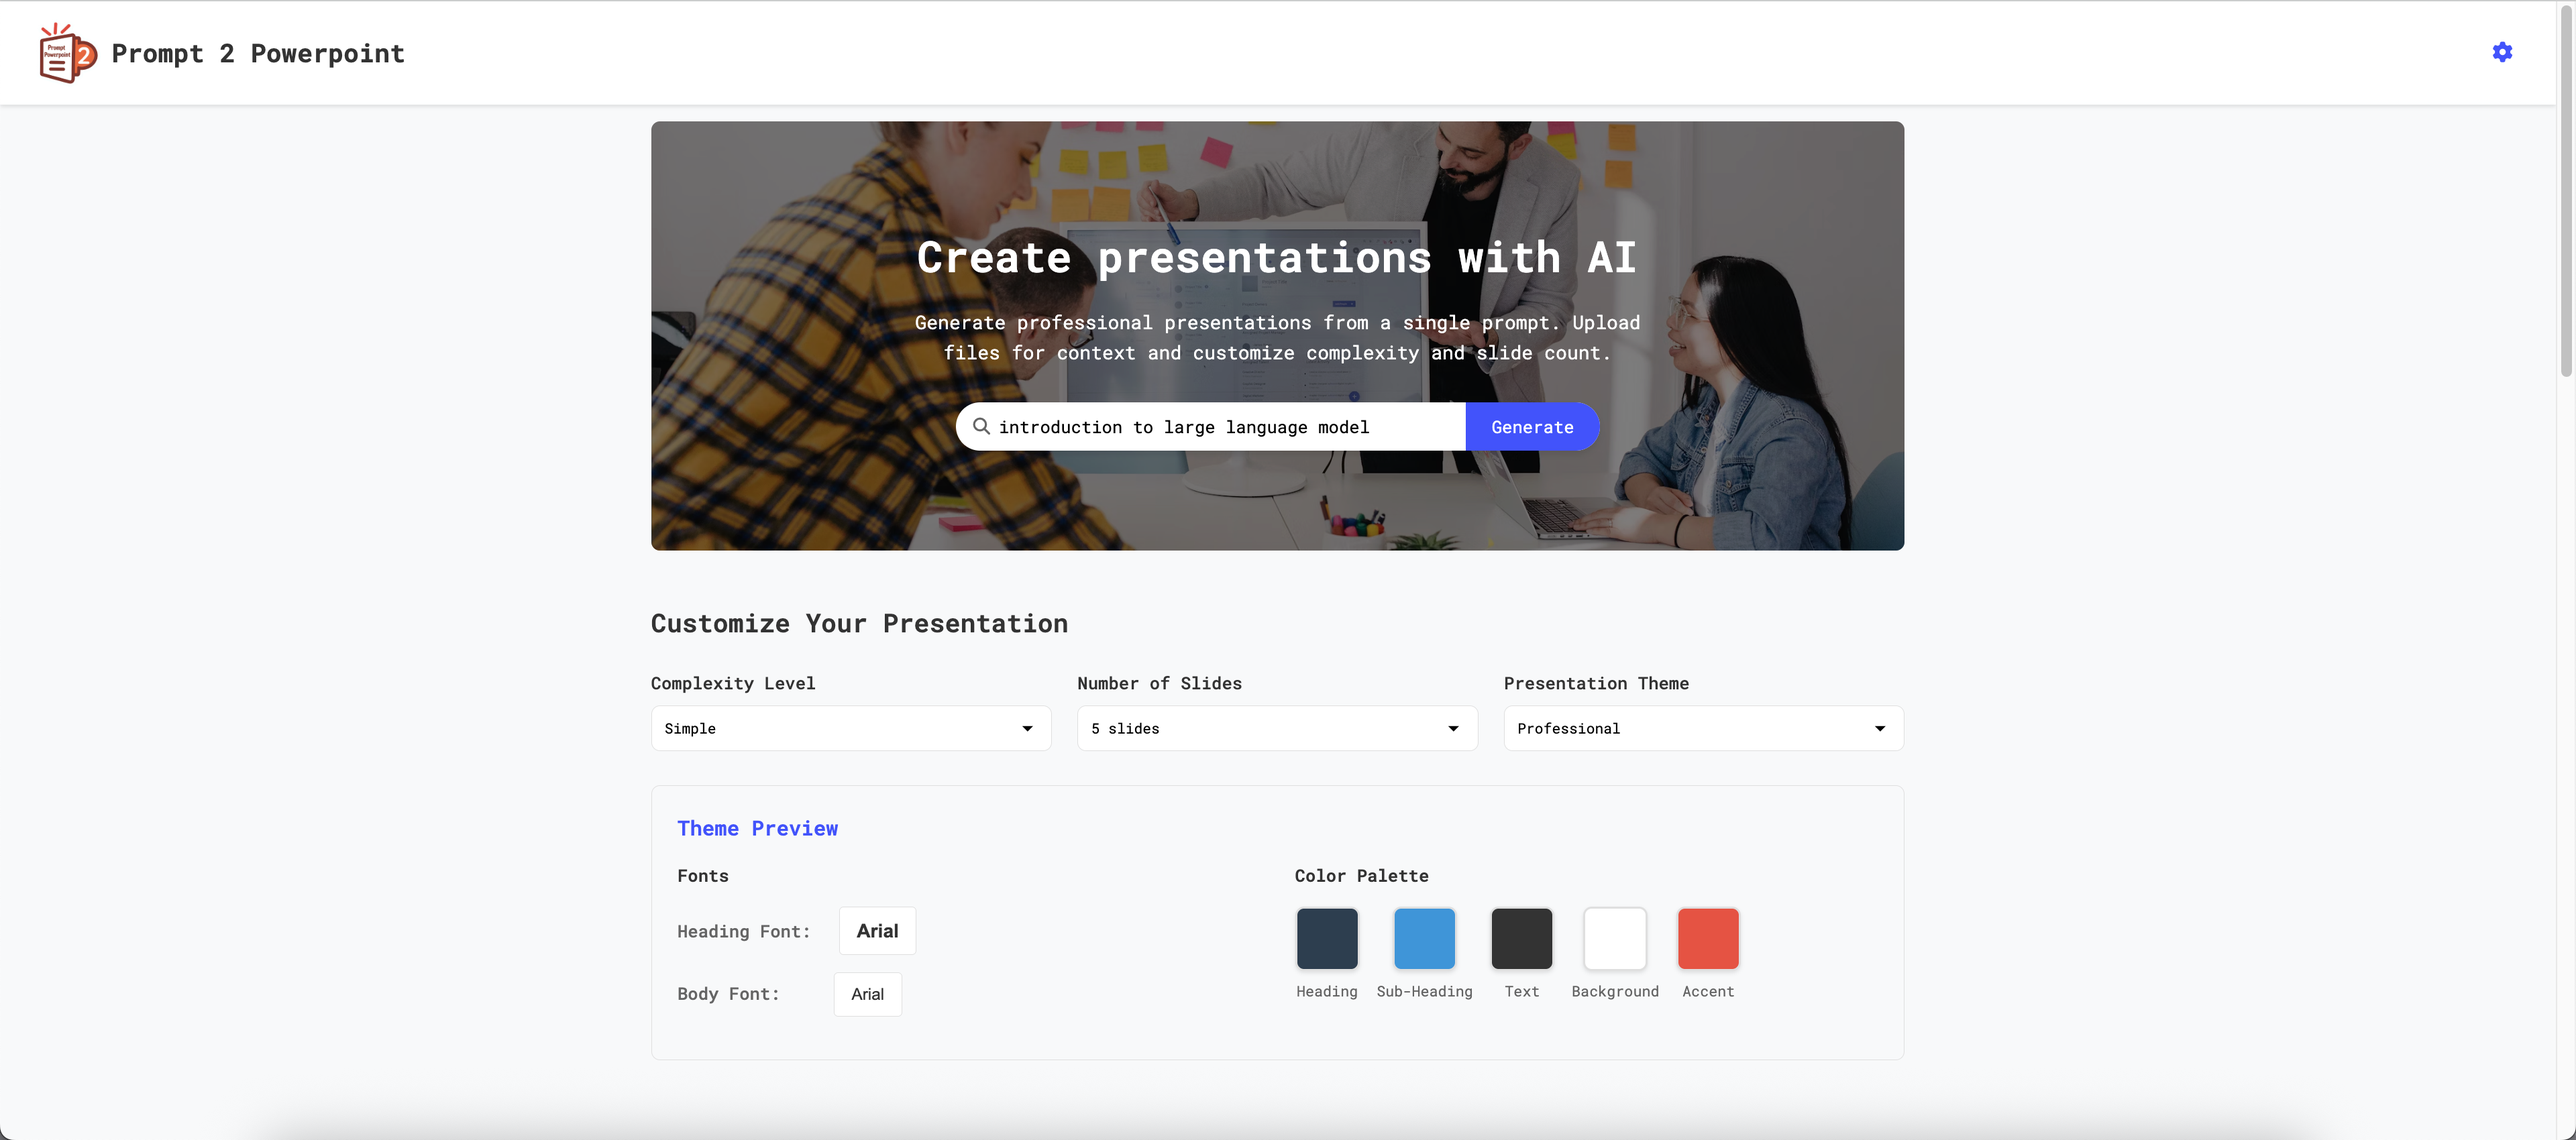
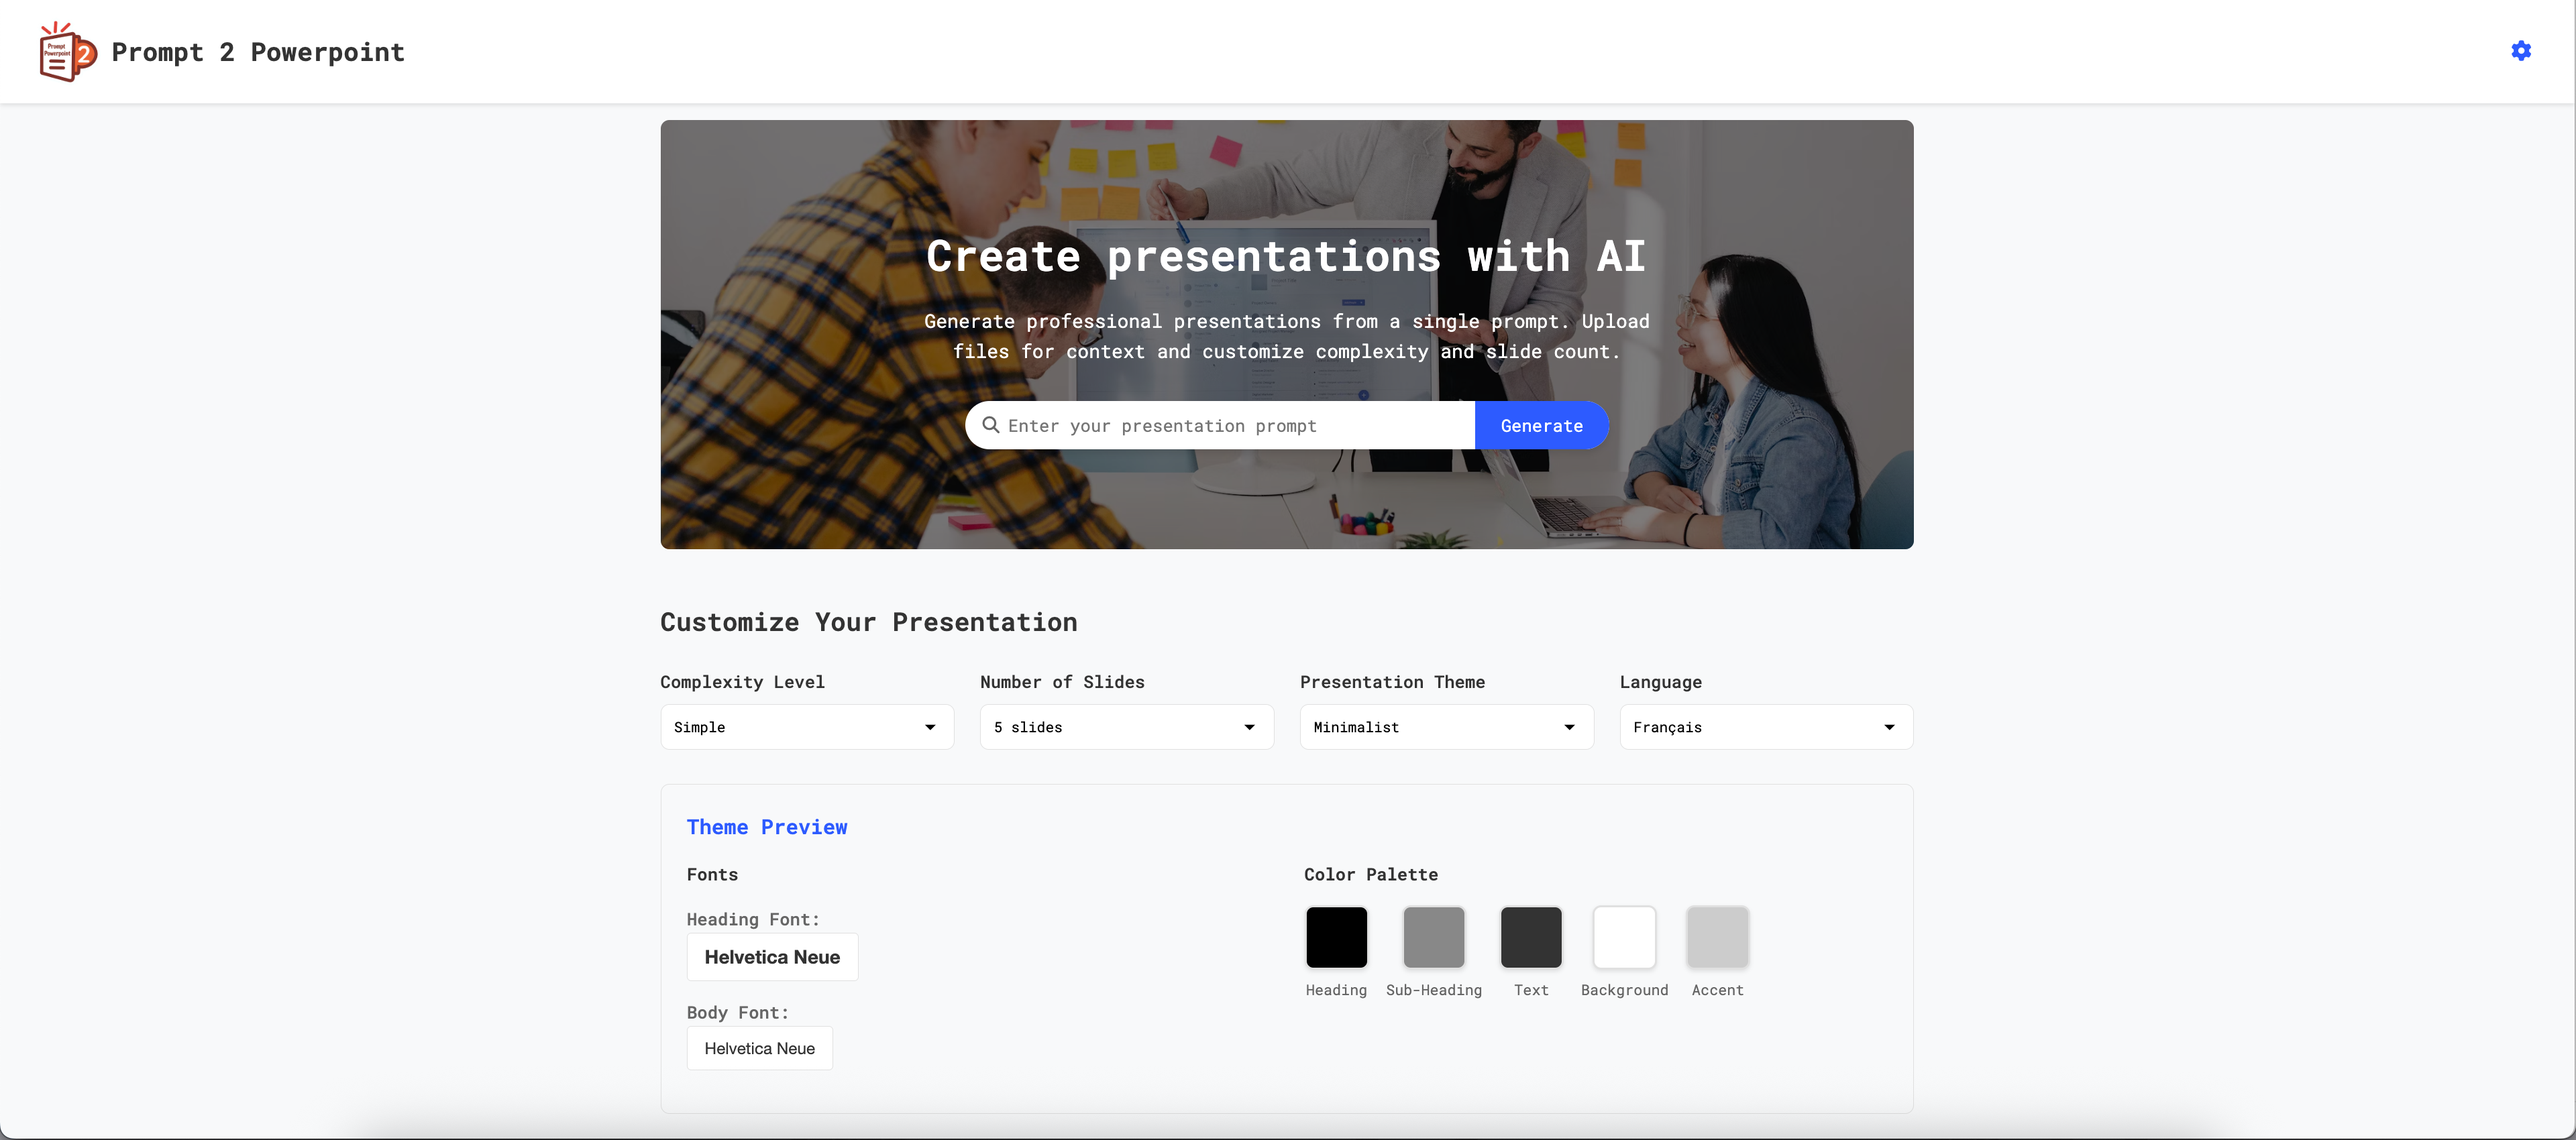
Documentation Update

diff --git a/README.md b/README.md
@@ -90,7 +90,7 @@ For maximum privacy, use:
 
 <p align="center">
   <img src="assets/images/3.Presentation_Settings.png" alt="Presentation Settings"><br>
-  <b>Presentation Configuration</b>
+  <b>Presentation Configuration [Complexity, Slides & Language]</b>
 </p>
 
 <p align="center">
@@ -388,7 +388,8 @@ prompt-2-powerpoint/
 │   ├── fileHandler.js  # PDF/text processing
 │   ├── presentationBuilder.js # PPTX generation
 │   ├── ui.js           # Interface management
-│   └── pexelsClient.js # Image API integration
+│   ├── pexelsClient.js # Image API integration
+│   └── localImageHandler.js # Local image folder management
 └── README.md           # This file
 ```
 
